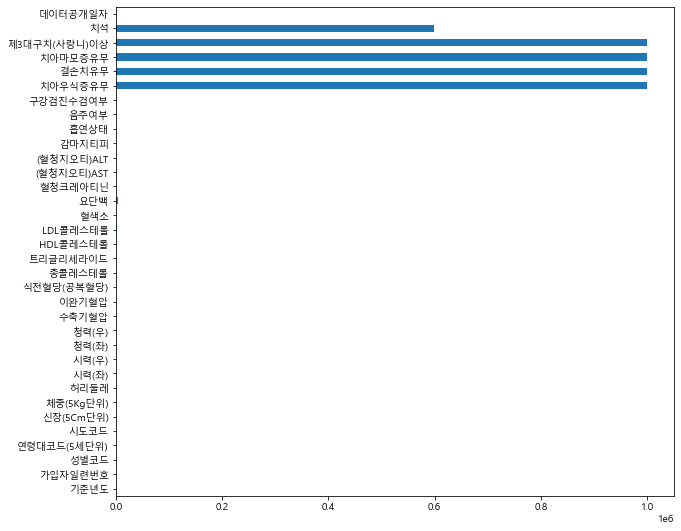
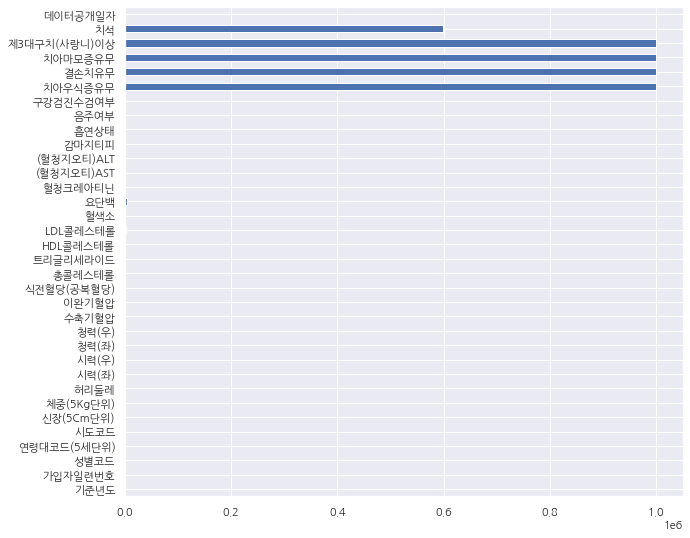
update | 210629-5

diff --git a/python-pjt/Data analysis(Check-up)/Health check-up figures for drinking or not - 210629.md b/python-pjt/Data analysis(Check-up)/Health check-up figures for drinking or not - 210629.md
@@ -21,8 +21,9 @@ import matplotlib.pyplot as plt
 
 ```python
 import matplotlib.pyplot as plt
-plt.rc('font',family= 'Malgun Gothic')  # 한글깨짐방지 두줄.
+# 한글깨짐방지 두줄.
 plt.rc('axes',unicode_minus=False)
+plt.rcParams['font.family'] = 'NanumGothic'
 ```
 
 
@@ -707,27 +708,27 @@ df.sample()
   </thead>
   <tbody>
     <tr>
-      <th>729495</th>
+      <th>596998</th>
       <td>2017</td>
-      <td>729496</td>
+      <td>596999</td>
       <td>1</td>
-      <td>17</td>
-      <td>41</td>
-      <td>150</td>
-      <td>60</td>
-      <td>85.0</td>
-      <td>0.5</td>
-      <td>0.4</td>
+      <td>11</td>
+      <td>28</td>
+      <td>165</td>
+      <td>85</td>
+      <td>99.7</td>
+      <td>1.0</td>
+      <td>0.9</td>
       <td>...</td>
-      <td>22.0</td>
-      <td>3.0</td>
-      <td>0.0</td>
-      <td>1</td>
+      <td>38.0</td>
+      <td>2.0</td>
+      <td>1.0</td>
+      <td>0</td>
       <td>NaN</td>
       <td>NaN</td>
       <td>NaN</td>
       <td>NaN</td>
-      <td>0.0</td>
+      <td>NaN</td>
       <td>20181126</td>
     </tr>
   </tbody>
@@ -1649,6 +1650,49 @@ df.pivot_table(index=['성별코드','음주여부'],values='감마지티피',
 
 
 
+전체 데이터 시각화
+
+
+```python
+h=df.hist(figsize=(15,15))
+```
+
+
+    
+![png](output_26_0.png)
+    
+
+
+
+```python
+df.iloc[:,:12].hist(figsize=(12,12))
+#너무 많으니까 12개 컬럼에 대해서만
+```
+
+
+
+
+    array([[<AxesSubplot:title={'center':'기준년도'}>,
+            <AxesSubplot:title={'center':'가입자일련번호'}>,
+            <AxesSubplot:title={'center':'성별코드'}>],
+           [<AxesSubplot:title={'center':'연령대코드(5세단위)'}>,
+            <AxesSubplot:title={'center':'시도코드'}>,
+            <AxesSubplot:title={'center':'신장(5Cm단위)'}>],
+           [<AxesSubplot:title={'center':'체중(5Kg단위)'}>,
+            <AxesSubplot:title={'center':'허리둘레'}>,
+            <AxesSubplot:title={'center':'시력(좌)'}>],
+           [<AxesSubplot:title={'center':'시력(우)'}>,
+            <AxesSubplot:title={'center':'청력(좌)'}>,
+            <AxesSubplot:title={'center':'청력(우)'}>]], dtype=object)
+
+
+
+
+    
+![png](output_27_1.png)
+    
+
+
 
 ```python
 
@@ -1679,6 +1723,174 @@ df.pivot_table(index=['성별코드','음주여부'],values='감마지티피',
 
 ```
 
+## 샘플데이터 추출하기
+
+
+```python
+df_sample = df.sample(1000,random_state=1)
+df_sample.shape # 너무 많으니까 1000개만.
+```
+
+
+
+
+    (1000, 34)
+
+
+
+
+```python
+df['음주여부'].value_counts().plot.bar()
+```
+
+
+
+
+    <AxesSubplot:>
+
+
+
+
+    
+![png](output_36_1.png)
+    
+
+
+
+```python
+sns.countplot(x='음주여부',data=df)
+```
+
+
+
+
+    <AxesSubplot:xlabel='음주여부', ylabel='count'>
+
+
+
+
+    
+![png](output_37_1.png)
+    
+
+
+
+```python
+sns.set(font_scale=1, font = 'NanumGothic')
+sns.countplot(data=df, x='음주여부', hue ='성별코드')
+```
+
+
+
+
+    <AxesSubplot:xlabel='음주여부', ylabel='count'>
+
+
+
+
+    
+![png](output_38_1.png)
+    
+
+
+
+```python
+sns.countplot(data=df, x='연령대코드(5세단위)',hue='음주여부')
+```
+
+
+
+
+    <AxesSubplot:xlabel='연령대코드(5세단위)', ylabel='count'>
+
+
+
+
+    
+![png](output_39_1.png)
+    
+
+
+## 키와 몸무게
+
+
+```python
+plt.figure(figsize=(15,4))
+sns.countplot(data=df, x='신장(5Cm단위)')
+```
+
+
+
+
+    <AxesSubplot:xlabel='신장(5Cm단위)', ylabel='count'>
+
+
+
+
+    
+![png](output_41_1.png)
+    
+
+
+
+```python
+plt.figure(figsize=(15,4))
+sns.countplot(data=df, x='신장(5Cm단위)',hue='성별코드')
+```
+
+
+
+
+    <AxesSubplot:xlabel='신장(5Cm단위)', ylabel='count'>
+
+
+
+
+    
+![png](output_42_1.png)
+    
+
+
+## 신장과 체중와 연령대 관계
+
+
+```python
+plt.figure(figsize=(15,4))
+sns.lineplot(data=df_sample, x='연령대코드(5세단위)', y='체중(5Kg단위)',hue='성별코드',ci='sd')
+```
+
+
+
+
+    <AxesSubplot:xlabel='연령대코드(5세단위)', ylabel='체중(5Kg단위)'>
+
+
+
+
+    
+![png](output_44_1.png)
+    
+
+
+
+```python
+plt.figure(figsize=(15,4))
+sns.lineplot(data=df_sample, x='연령대코드(5세단위)', y='신장(5Cm단위)',hue='성별코드',ci='sd')
+```
+
+
+
+
+    <AxesSubplot:xlabel='연령대코드(5세단위)', ylabel='신장(5Cm단위)'>
+
+
+
+
+    
+![png](output_45_1.png)
+    
+
+
 
 ```python
 
@@ -1686,63 +1898,83 @@ df.pivot_table(index=['성별코드','음주여부'],values='감마지티피',
 
 
 ```python
-
+plt.figure(figsize=(15,4))
+sns.lineplot(data=df_sample, x='연령대코드(5세단위)', y='신장(5Cm단위)',hue='음주여부',ci='sd')
 ```
+
+
+
+
+    <AxesSubplot:xlabel='연령대코드(5세단위)', ylabel='신장(5Cm단위)'>
+
+
+
+
+    
+![png](output_47_1.png)
+    
+
 
 
 ```python
-
+plt.figure(figsize=(15,4))
+# 겹쳐서 그릴 수 있다
+sns.barplot(data=df_sample, x='연령대코드(5세단위)', y='신장(5Cm단위)',hue='음주여부',ci='sd')
+sns.pointplot(data=df_sample, x='연령대코드(5세단위)', y='신장(5Cm단위)',hue='음주여부',ci='sd')
 ```
+
+
+
+
+    <AxesSubplot:xlabel='연령대코드(5세단위)', ylabel='신장(5Cm단위)'>
+
+
+
+
+    
+![png](output_48_1.png)
+    
+
 
 
 ```python
-
+plt.figure(figsize=(15,4)) 
+#막대로 표준편차 표시
+sns.pointplot(data=df_sample, x='연령대코드(5세단위)', y='신장(5Cm단위)',hue='성별코드',ci='sd')
 ```
+
+
+
+
+    <AxesSubplot:xlabel='연령대코드(5세단위)', ylabel='신장(5Cm단위)'>
+
+
+
+
+    
+![png](output_49_1.png)
+    
+
 
 
 ```python
+plt.figure(figsize=(15,4)) 
 
+sns.lineplot(data=df, x='연령대코드(5세단위)', y= '혈색소',hue='음주여부',ci=None)
 ```
 
 
-```python
-
-```
 
 
-```python
-
-```
+    <AxesSubplot:xlabel='연령대코드(5세단위)', ylabel='혈색소'>
 
 
-```python
-
-```
 
 
-```python
+    
+![png](output_50_1.png)
+    
 
-```
-
-
-```python
-
-```
-
-
-```python
-
-```
-
-
-```python
-
-```
-
-
-```python
-
-```
 
 
 ```python
